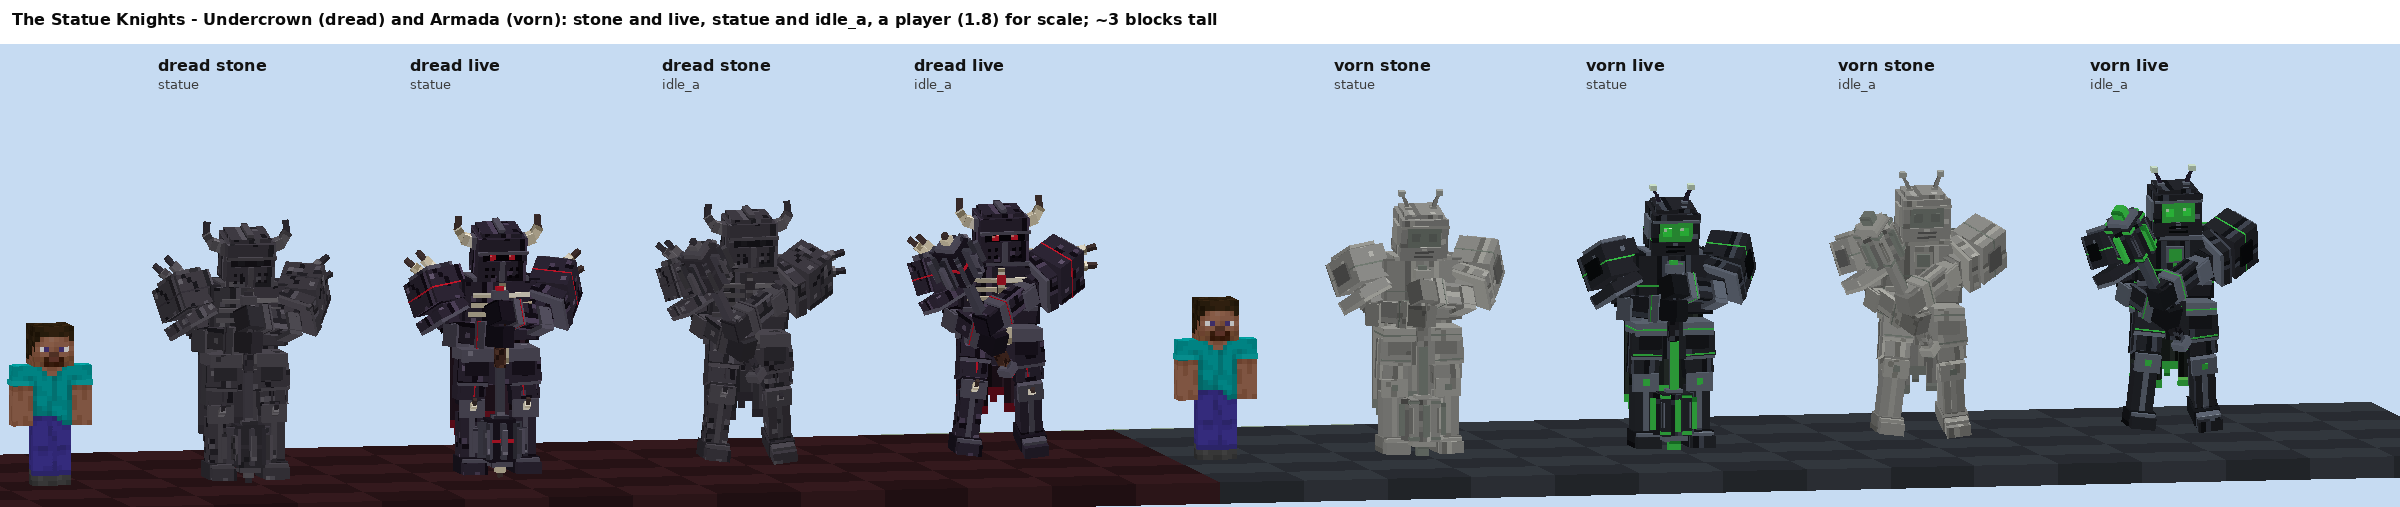
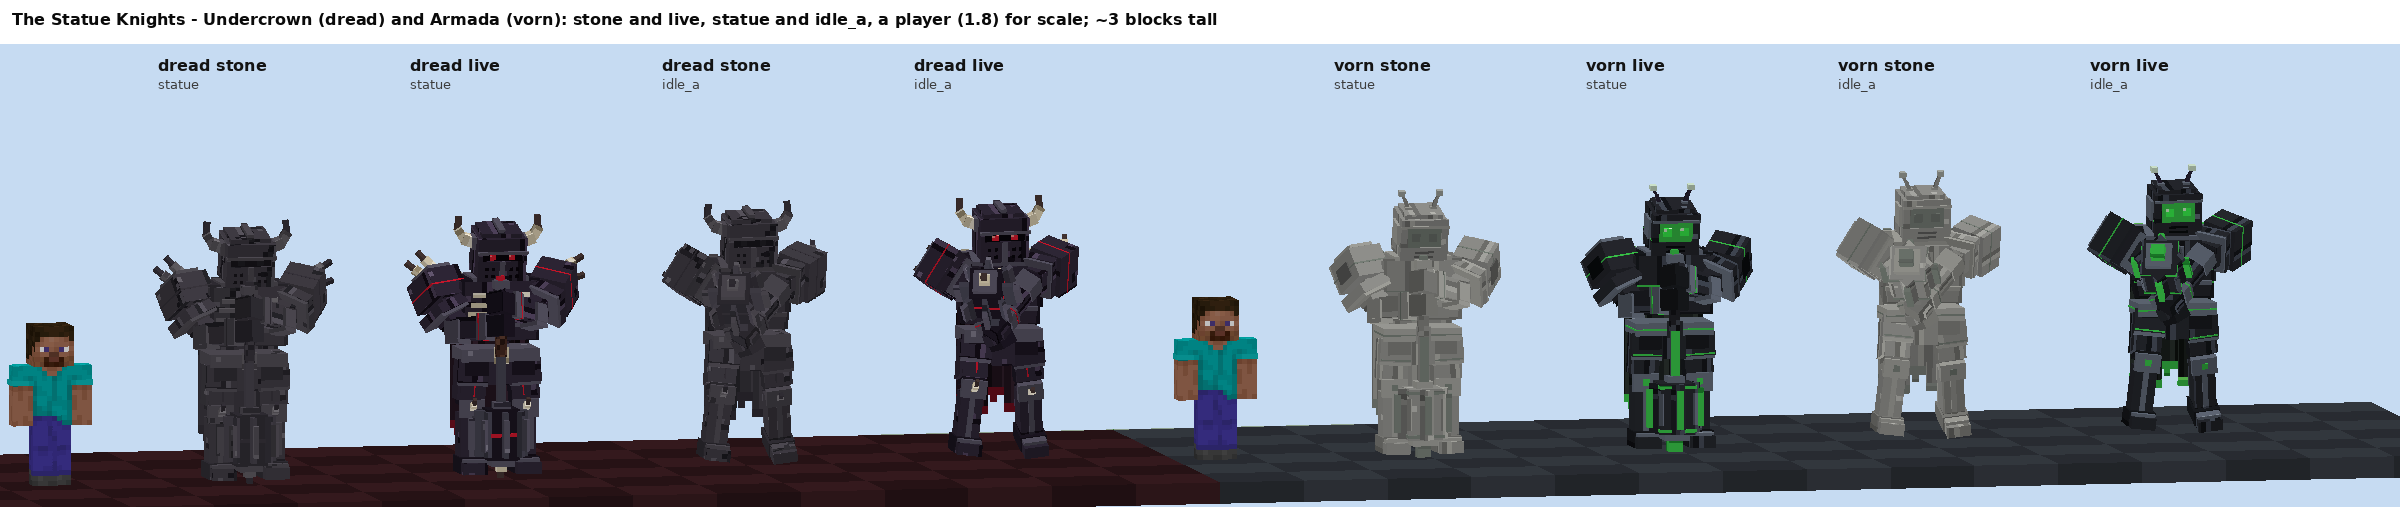
Work in progress: knight art, Seraph helm, armour remodels (agents)
Claude-Session: https://claude.ai/code/session_01XWL2YCZPbHFbZZugTCggqD

diff --git a/bm_build/knight_art.py b/bm_build/knight_art.py
@@ -974,47 +974,64 @@ def item_def(kind):
 
 
 # ---------------------------------------------------------------------------------------------------- the icons (16 x 16, sprites280's look)
-ICON_RAMP = {'dread': ['#25232a', '#38353e', '#4e4a55', '#68646f', '#86828c'],
+ICON_RAMP = {'dread': ['#2a282e', '#423e48', '#5c5864', '#7a7682', '#9c98a4'],
              'vorn': ['#6c6e6a', '#8a8c86', '#a8aaa3', '#c4c5be', '#dedfd8']}
-# a little stone knight on a plinth, by hand: 1-5 the stone's shades (dark -> light, lit from the top left; 1 also parts the
-# pauldrons from the breast and the legs from the mace head), e the unlit eye-slit / visor, r the plinth's rune - its one colour
-_ICON_LOW = ['.55541433313332.',
-             '.54431433213221.',
-             '.33321354212221.',
-             '..4341544312221.',
-             '....43353221....',
-             '....34554321....',
-             '...3234332111...',
-             '..555555555554..',
-             '..43rrrrrr3332..',
-             '..222222222211..']
-ICON_ROWS = {
-    'dread': ['...4........2...',
-              '...4.554443.2...',
-              '....45444432....',
-              '.....5eeee2.....',
-              '.....434332.....',
-              '.....333322.....'] + _ICON_LOW,
-    'vorn': ['......4..3......',
-             '.....554443.....',
-             '.....544443.....',
-             '.....5eeee2.....',
-             '.....4eeee2.....',
-             '.....333322.....'] + _ICON_LOW}
+
+
+# a little stone knight on a plinth, the statue pose: lit blocks (each a base shade 1-5 of the stone's ramp, its top row and left
+# column a step lighter, its bottom row and right column a step darker - light from the top left), the mace planted before it in
+# the light shades (the haft and its flanged head, the gauntlets on the pommel), the helm's eye-slit / visor unlit (e), the
+# plinth's rune the icon's one colour (r: which dungeon it came from)
+def _blk(px, x0, y0, x1, y1, b, lit=True):
+    for y in range(y0, y1 + 1):
+        for x in range(x0, x1 + 1):
+            v = b
+            if lit:
+                if (y == y0 and y1 > y0) or (x == x0 and x1 > x0): v += 1
+                if (y == y1 and y1 > y0) or (x == x1 and x1 > x0): v -= 1
+            px[(x, y)] = max(1, min(5, v))
 
 
 def _icon_px(kind):
-    rows = ICON_ROWS[kind]; assert len(rows) == 16 and all(len(r) == 16 for r in rows), kind
-    return {(x, y): (int(c) if c.isdigit() else c) for y, r in enumerate(rows) for x, c in enumerate(r) if c != '.'}
+    px = {}
+    B = lambda *a, **k: _blk(px, *a, **k)
+    B(1, 14, 14, 14, 4, lit=False); px[(1, 14)] = 5                        # (the plinth: its top course, its face and rune)
+    B(1, 15, 14, 15, 2, lit=False); px[(1, 15)] = 3
+    for x in range(4, 12): px[(x, 15)] = 'r'
+    B(3, 10, 6, 13, 3); B(9, 10, 12, 13, 2)                                 # (the legs, apart)
+    px[(2, 13)] = 3; px[(13, 13)] = 1
+    B(3, 6, 12, 10, 3)                                                      # (the breastplate, the tassets)
+    for x in range(3, 13): px[(x, 10)] = 2
+    B(0, 6, 3, 8, 4); B(12, 6, 15, 8, 2)                                    # (the pauldrons)
+    for x, v in ((1, 3), (2, 3), (3, 4), (4, 4), (5, 4), (14, 2), (13, 2), (12, 2), (11, 3), (10, 3)): px[(x, 9)] = v    # (forearms in)
+    px[(6, 8)] = 5; px[(6, 9)] = 4; px[(9, 8)] = 3; px[(9, 9)] = 3          # (the gauntlets on the pommel)
+    px[(7, 7)] = 5; px[(8, 7)] = 4                                          # (the pommel)
+    for y in (8, 9, 10, 11): px[(7, y)] = 5; px[(8, y)] = 4 if y < 10 else 3    # (the haft)
+    B(5, 12, 10, 13, 4); px[(5, 12)] = 5; px[(10, 13)] = 2                  # (the head, flanged)
+    px[(7, 12)] = 5; px[(6, 11)] = 4; px[(9, 11)] = 2
+    B(5, 1, 10, 5, 2)                                                       # (the helm)
+    px[(5, 1)] = 3; px[(6, 1)] = 4; px[(7, 1)] = 4
+    for y in (2, 3, 4): px[(5, y)] = 3
+    if kind == 'dread':
+        px.pop((5, 1)); px.pop((10, 1))
+        for x in range(6, 10): px[(x, 3)] = 'e'                             # (the eye-slit)
+        px[(7, 4)] = 3; px[(8, 4)] = 3
+        px[(4, 2)] = 4; px[(3, 1)] = 5; px[(3, 0)] = 4                      # (the horns)
+        px[(11, 2)] = 3; px[(12, 1)] = 3; px[(12, 0)] = 2
+    else:
+        for x in range(6, 10): px[(x, 3)] = 'e'; px[(x, 2)] = 'e'           # (the square visor)
+        px[(6, 0)] = 5; px[(9, 0)] = 3                                      # (the antennae' tips)
+    for x in range(6, 10): px[(x, 6)] = 2                                   # (the gorget)
+    return px
 
 
-ICON_RUNE = {'dread': '#7a1e28', 'vorn': '#2e8a40'}
+ICON_RUNE = {'dread': '#8a2230', 'vorn': '#2e9a46'}
 
 
 def icon_raw(kind):
     """the icon before vanilla.process (gen_rp's ICONS loop finishes it): drawn, outlined"""
     ramp = ICON_RAMP[kind]
-    pal = {i + 1: ramp[i] for i in range(5)}; pal['e'] = '#141216' if kind == 'dread' else '#3c403c'; pal['r'] = ICON_RUNE[kind]
+    pal = {i + 1: ramp[i] for i in range(5)}; pal['e'] = '#141216' if kind == 'dread' else '#4a504a'; pal['r'] = ICON_RUNE[kind]
     im = Image.new('RGBA', (16, 16), (0, 0, 0, 0)); px = im.load()
     for (x, y), v in _icon_px(kind).items():
         px[x, y] = _rgb(pal[v]) + (255,)

diff --git a/bm_build/tools/preview/knights.py b/bm_build/tools/preview/knights.py
@@ -131,8 +131,8 @@ if 'items' in what:
         for v, l in (('front', 'front'), ((-32, 12), '3/4'), ('side', 'side')):
             s = K.multi_scene(ROOT)
             s.solid((-0.5, -1.0, -0.5), (0.5, 0.0, 0.5), '#5a5a62' if kind == 'dread' else '#8a8e96')          # (the block it was placed on)
-            s.display(f'bm:item/{A.STATUES[kind]}', pos=(0, 0.5, 0), yaw=180.0, ctx='fixed')      # (item_display 'fixed' at the air block's centre; facing the viewer)
-            steve(s, (1.4, 0, 0.3), yaw=0)
+            s.display(f'bm:item/{A.STATUES[kind]}', pos=(0, 0.5, 0), yaw=0.0, ctx='fixed')        # (item_display 'fixed' at the air block's centre, yaw 0: facing south, the viewer)
+            steve(s, (1.5, 0, 1.2), yaw=0)
             floor(s, kind, 3.0)
             im = s.render(v, size=380, span=4.2, center=(0.4, 1.3, 0))
             tiles.append(label(im, f'{A.STATUES[kind]} - placed', f'{l}; item_display fixed, scale 1'))
